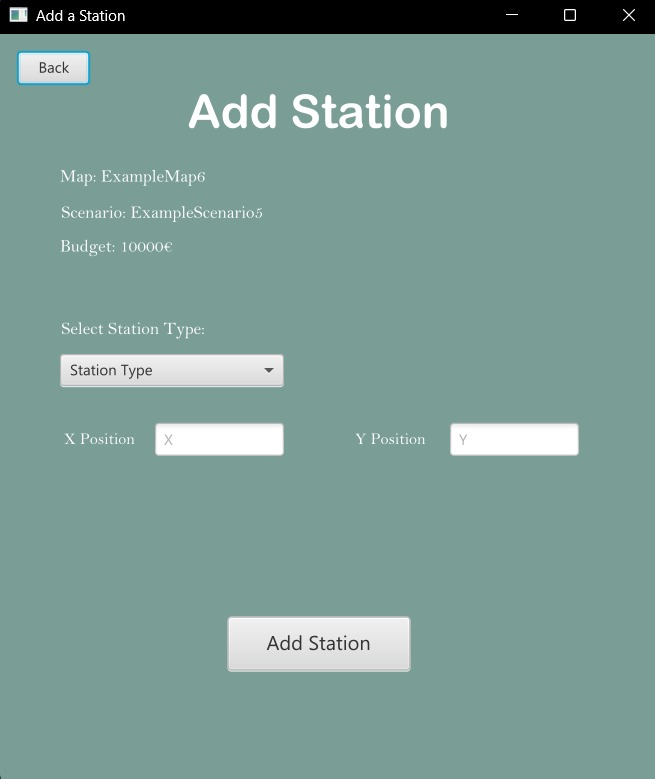
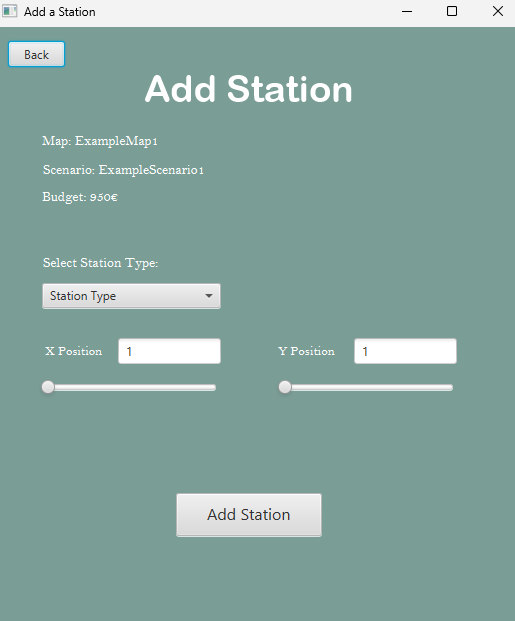
US005(code): Fixed inconsistencies

diff --git a/src/main/java/controller/AddStationController.java b/src/main/java/controller/AddStationController.java
@@ -99,13 +99,15 @@ public class AddStationController {
     public void onCharacterTyped(TextField textField, Slider slider)
     {
         try{
-            int value = Integer.parseInt(textField.getText());
+            if(!textField.getText().isEmpty())
+            {
+                int value = Integer.parseInt(textField.getText());
 
-            if(value < slider.getMin() || value > slider.getMax())
-                textField.setText(String.valueOf(slider.getValue()));
-            else
-                slider.setValue(value);
-
+                if(value < slider.getMin() || value > slider.getMax())
+                    textField.setText(String.valueOf(slider.getValue()));
+                else
+                    slider.setValue(value);
+            }
         } catch (Exception e) {
             textField.setText(String.valueOf(slider.getValue()));
         }
@@ -160,8 +162,8 @@ public class AddStationController {
 
         int positionX, positionY;
         try {
-            positionX = Integer.parseInt(XPosTxt.getText()) - 1;
-            positionY = Integer.parseInt(YPosTxt.getText()) - 1;
+            positionX = (int) XPosSli.getValue() - 1;
+            positionY = (int) YPosSli.getValue() - 1;
         } catch (NumberFormatException e) {
             showAlert("Invalid coordinates", "Please enter valid numeric coordinates for X and Y.");
             return;
